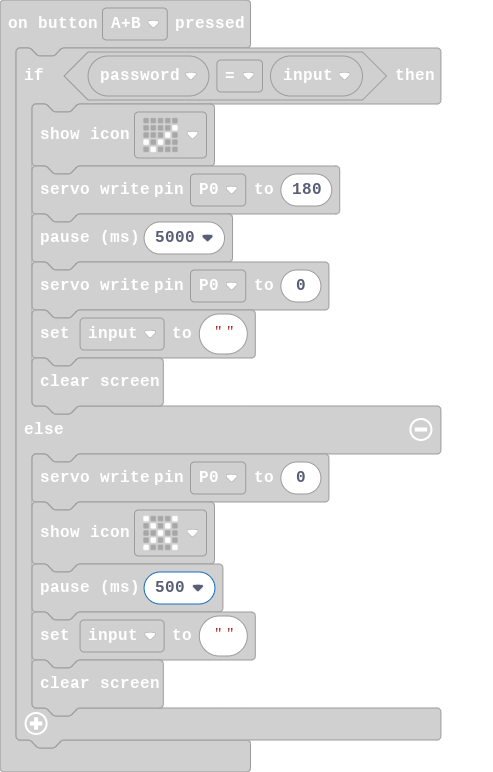
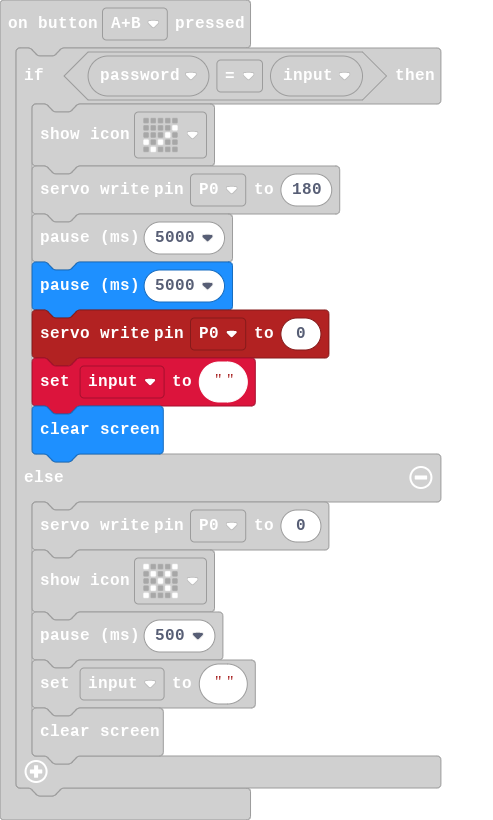
Update main.blocks, main.ts

diff --git a/main.ts b/main.ts
@@ -6,6 +6,7 @@ input.onButtonPressed(Button.AB, function () {
         basic.showIcon(IconNames.Yes)
         pins.servoWritePin(AnalogPin.P0, 180)
         basic.pause(5000)
+        basic.pause(5000)
         pins.servoWritePin(AnalogPin.P0, 0)
         input2 = ""
         basic.clearScreen()
